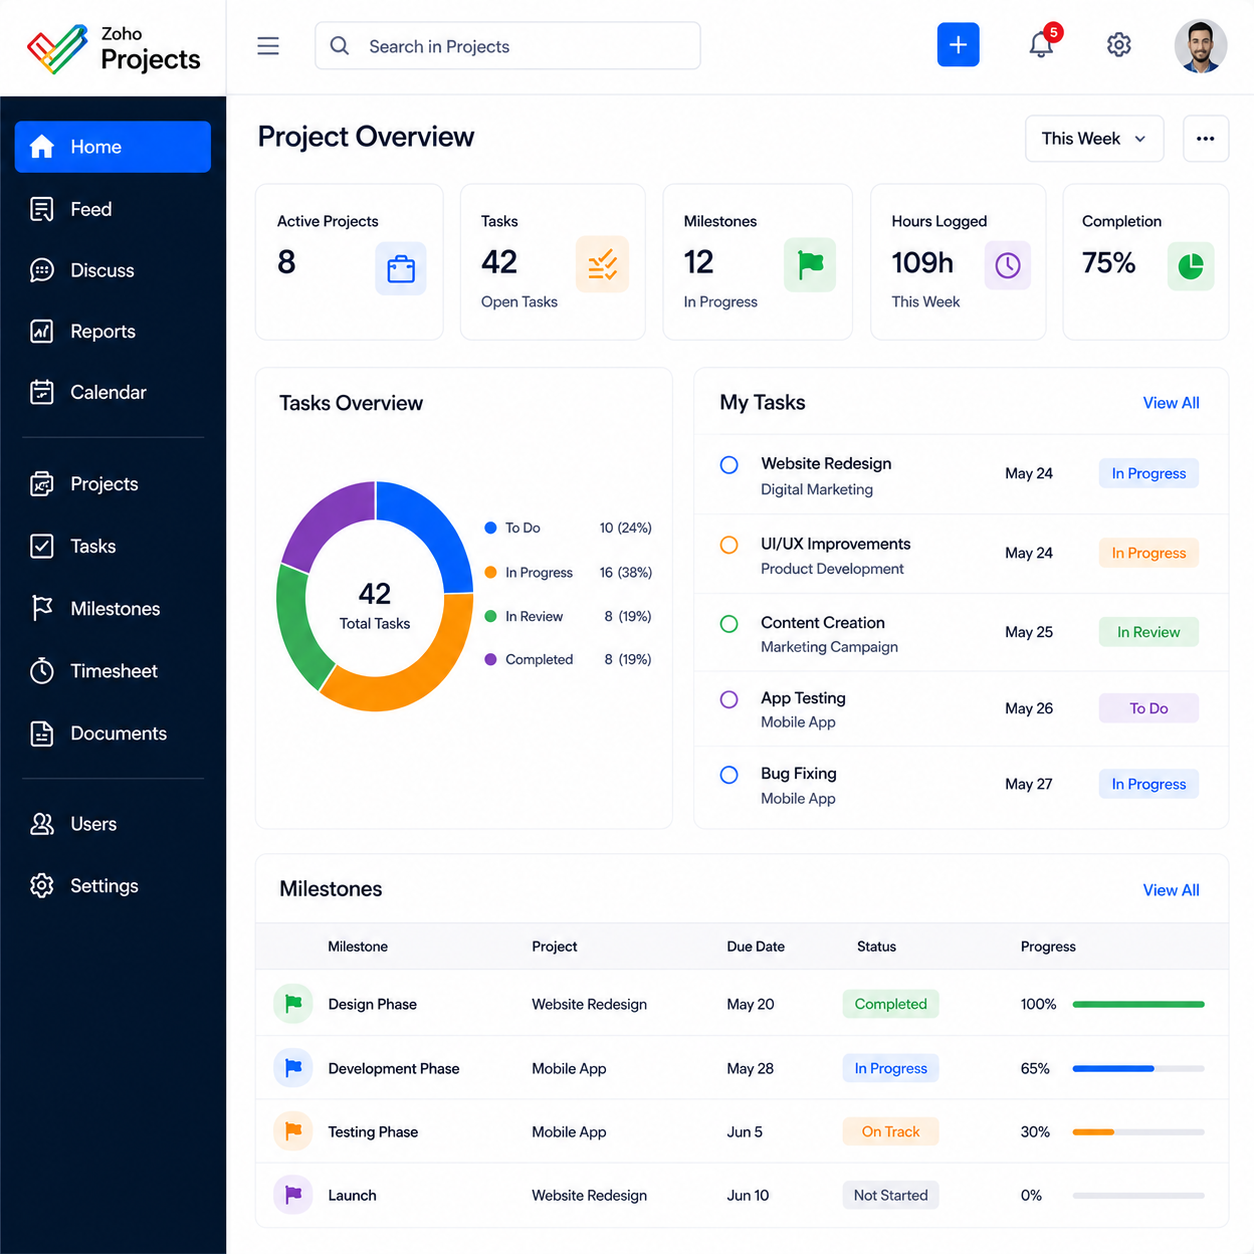
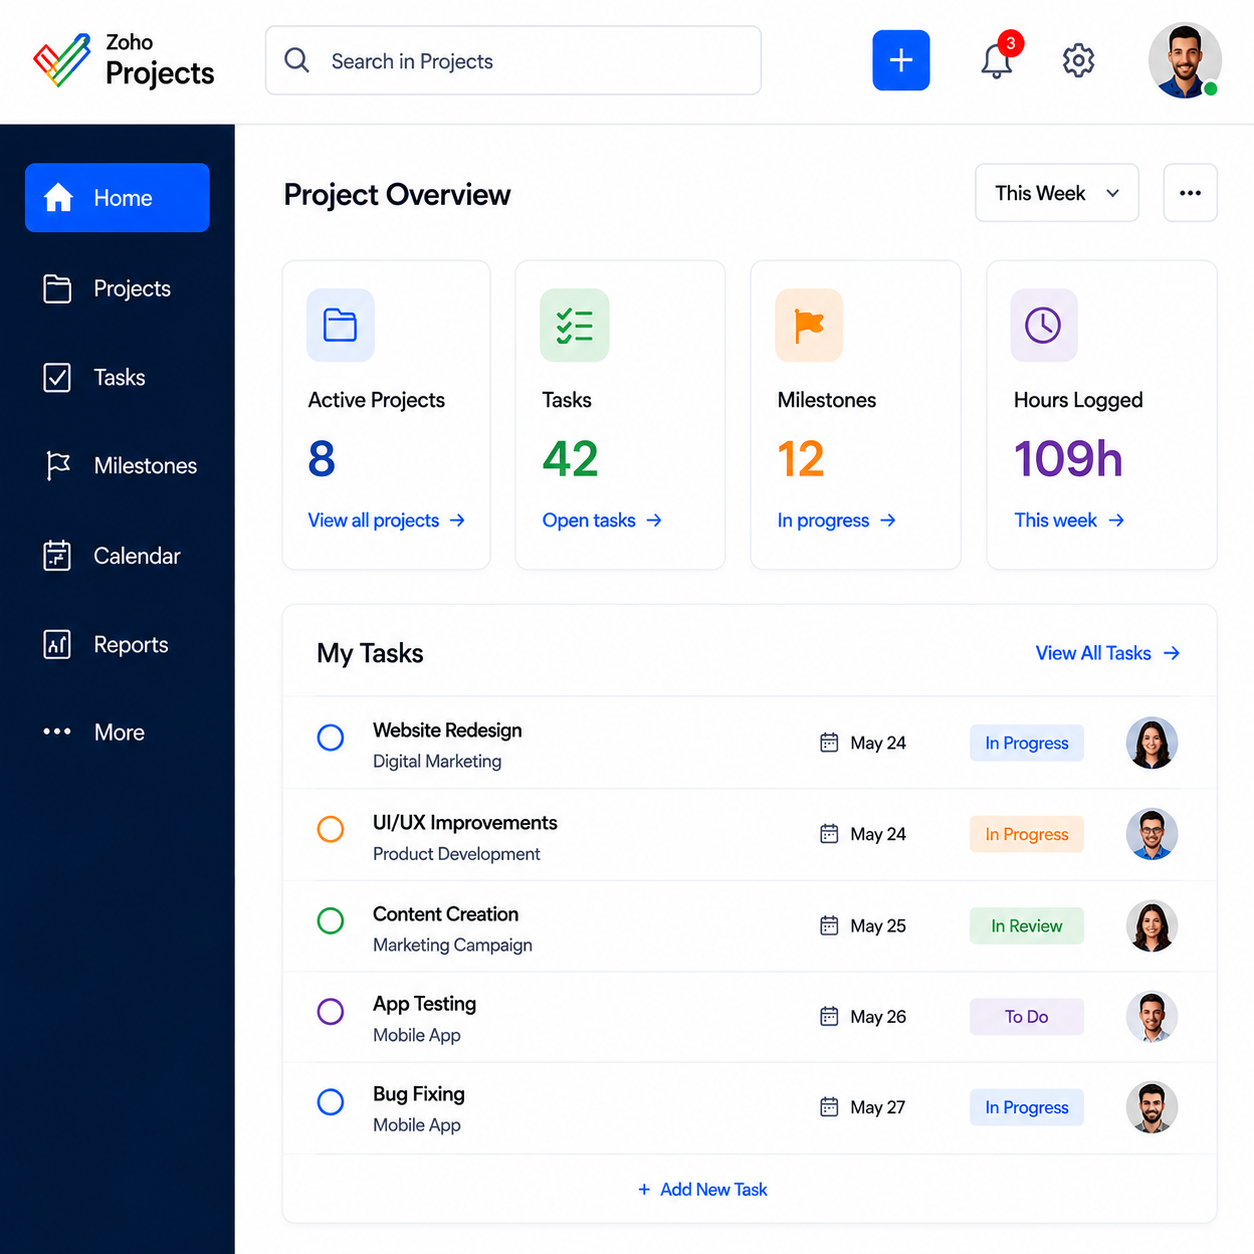
ERP pages updates

diff --git a/src/views/erpservices/ZohoErpDevelopment.jsx b/src/views/erpservices/ZohoErpDevelopment.jsx
@@ -400,7 +400,7 @@ const ZohoErpDevelopment = () => {
               </div>
 
               <div className="mt-14 border-t border-white/20 pt-10">
-                <div className="grid gap-8 sm:grid-cols-2 lg:grid-cols-4">
+                <div className="grid gap-8 sm:grid-cols-2 lg:grid-cols-2">
                   {heroStats.map((stat) => (
                     <div key={stat.label}>
                       <p className="text-3xl font-heading font-bold sm:text-4xl">{stat.value}</p>
@@ -487,10 +487,6 @@ const ZohoErpDevelopment = () => {
                 <p className="mt-3 text-sm leading-7 text-slate-600">{description}</p>
               </div>
             ))}
-          </div>
-
-          <div className="mt-12 flex justify-center">
-            <img src="/image_zohoo_das.png" alt="Zoho ERP Solution" className="h-auto w-full rounded-2xl object-cover shadow-xl" />
           </div>
         </div>
       </section>

diff --git a/src/views/industrypages/OdooErpDevelopment.jsx b/src/views/industrypages/OdooErpDevelopment.jsx
@@ -489,9 +489,6 @@ const OdooErpDevelopment = () => {
             ))}
           </div>
 
-          <div className="mt-12 flex justify-center">
-            <img src="/image.png" alt="Odoo ERP Solution" className="h-auto w-full rounded-2xl object-cover shadow-xl" />
-          </div>
         </div>
       </section>
 
